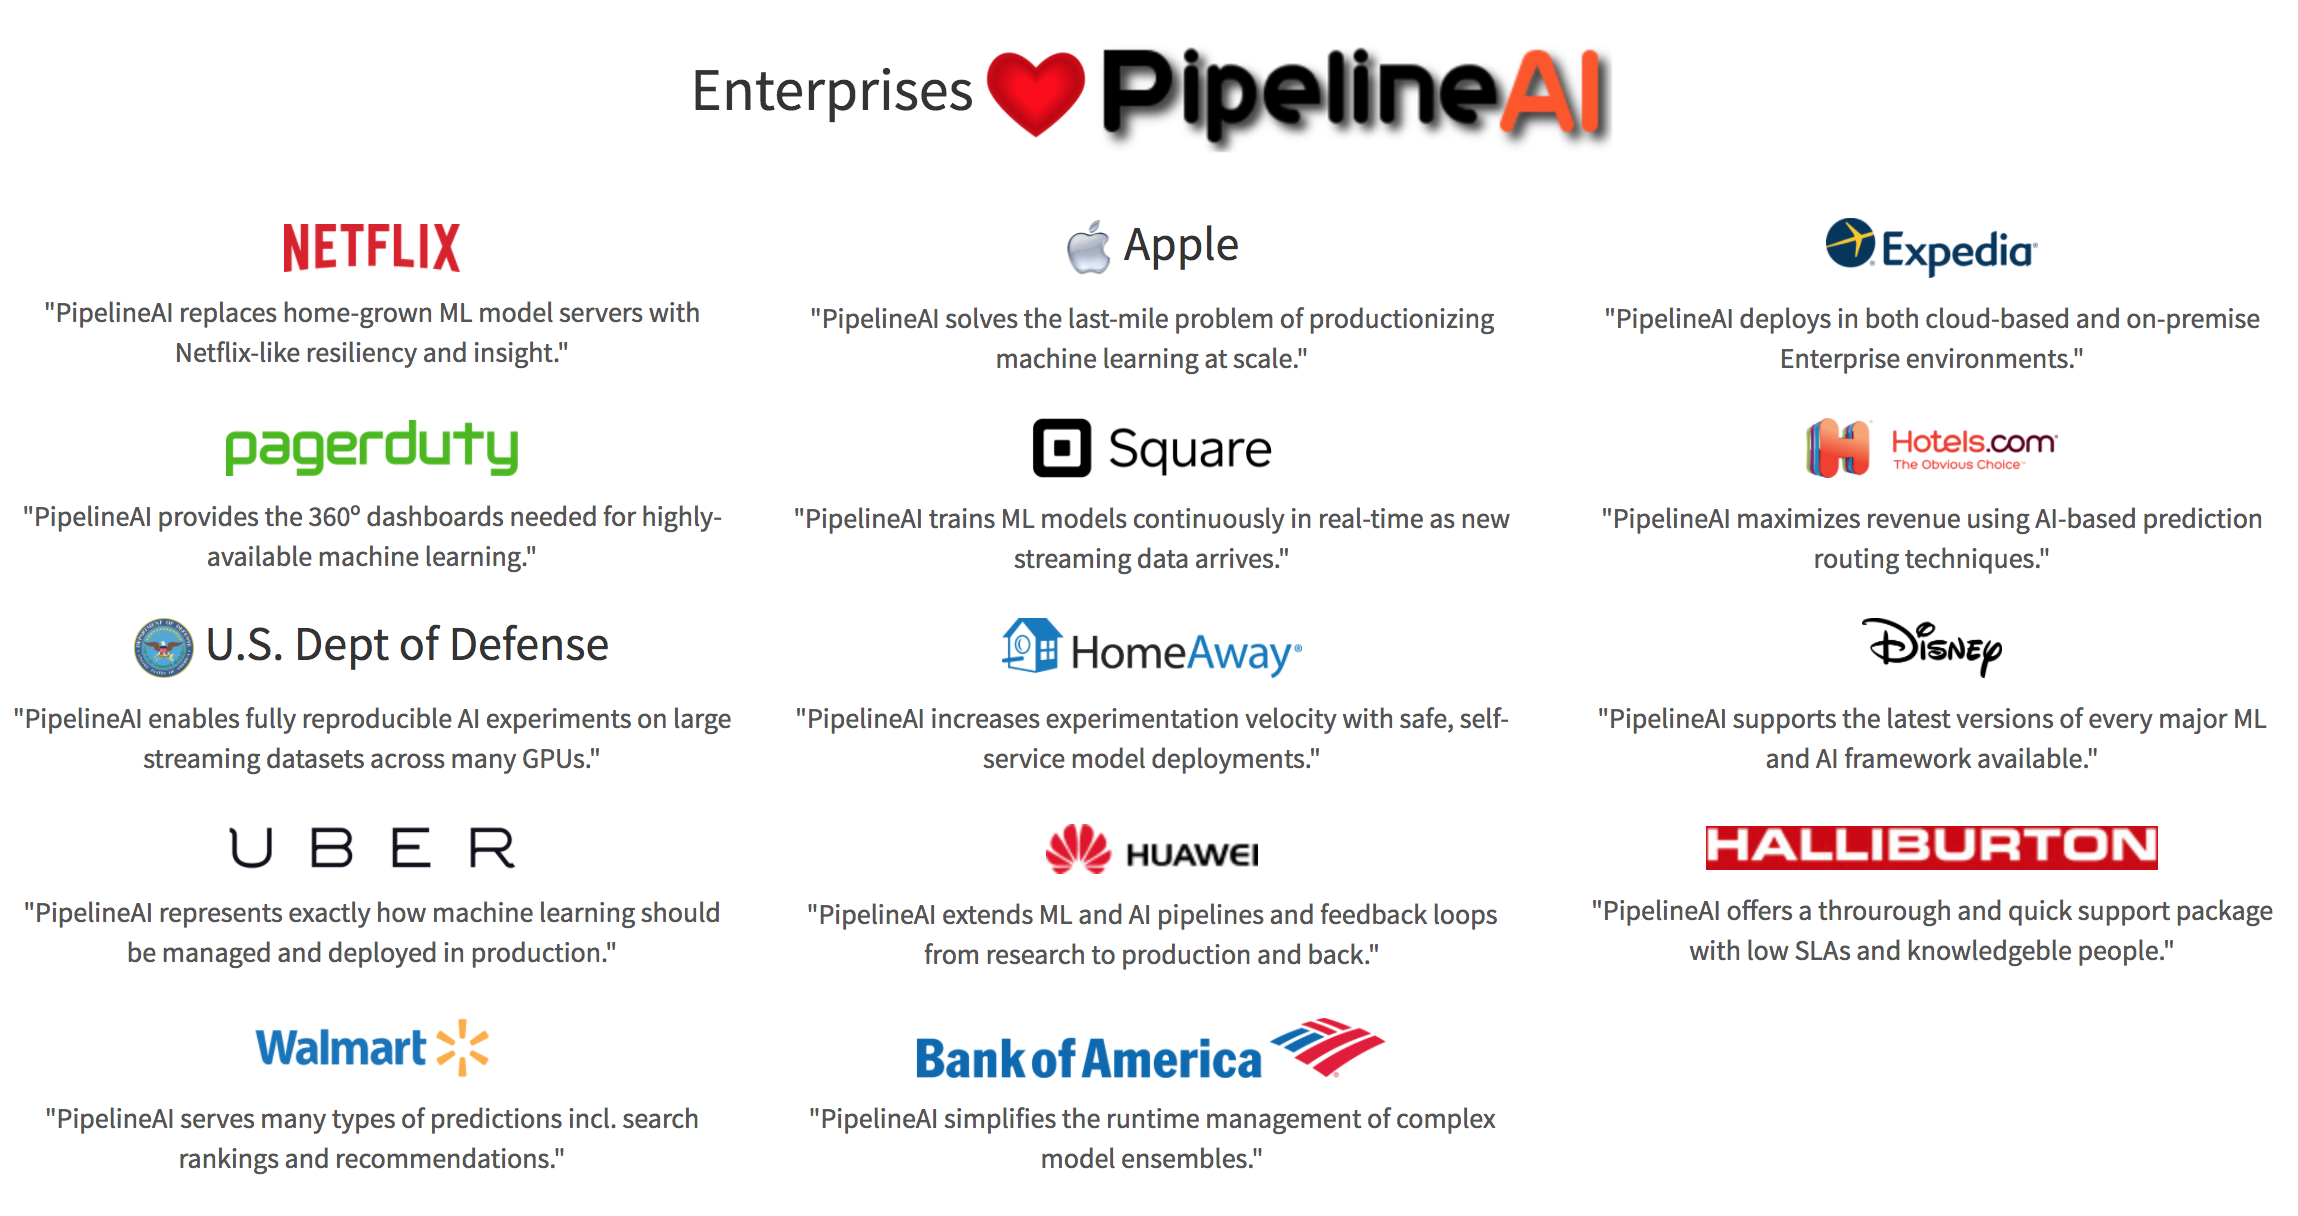
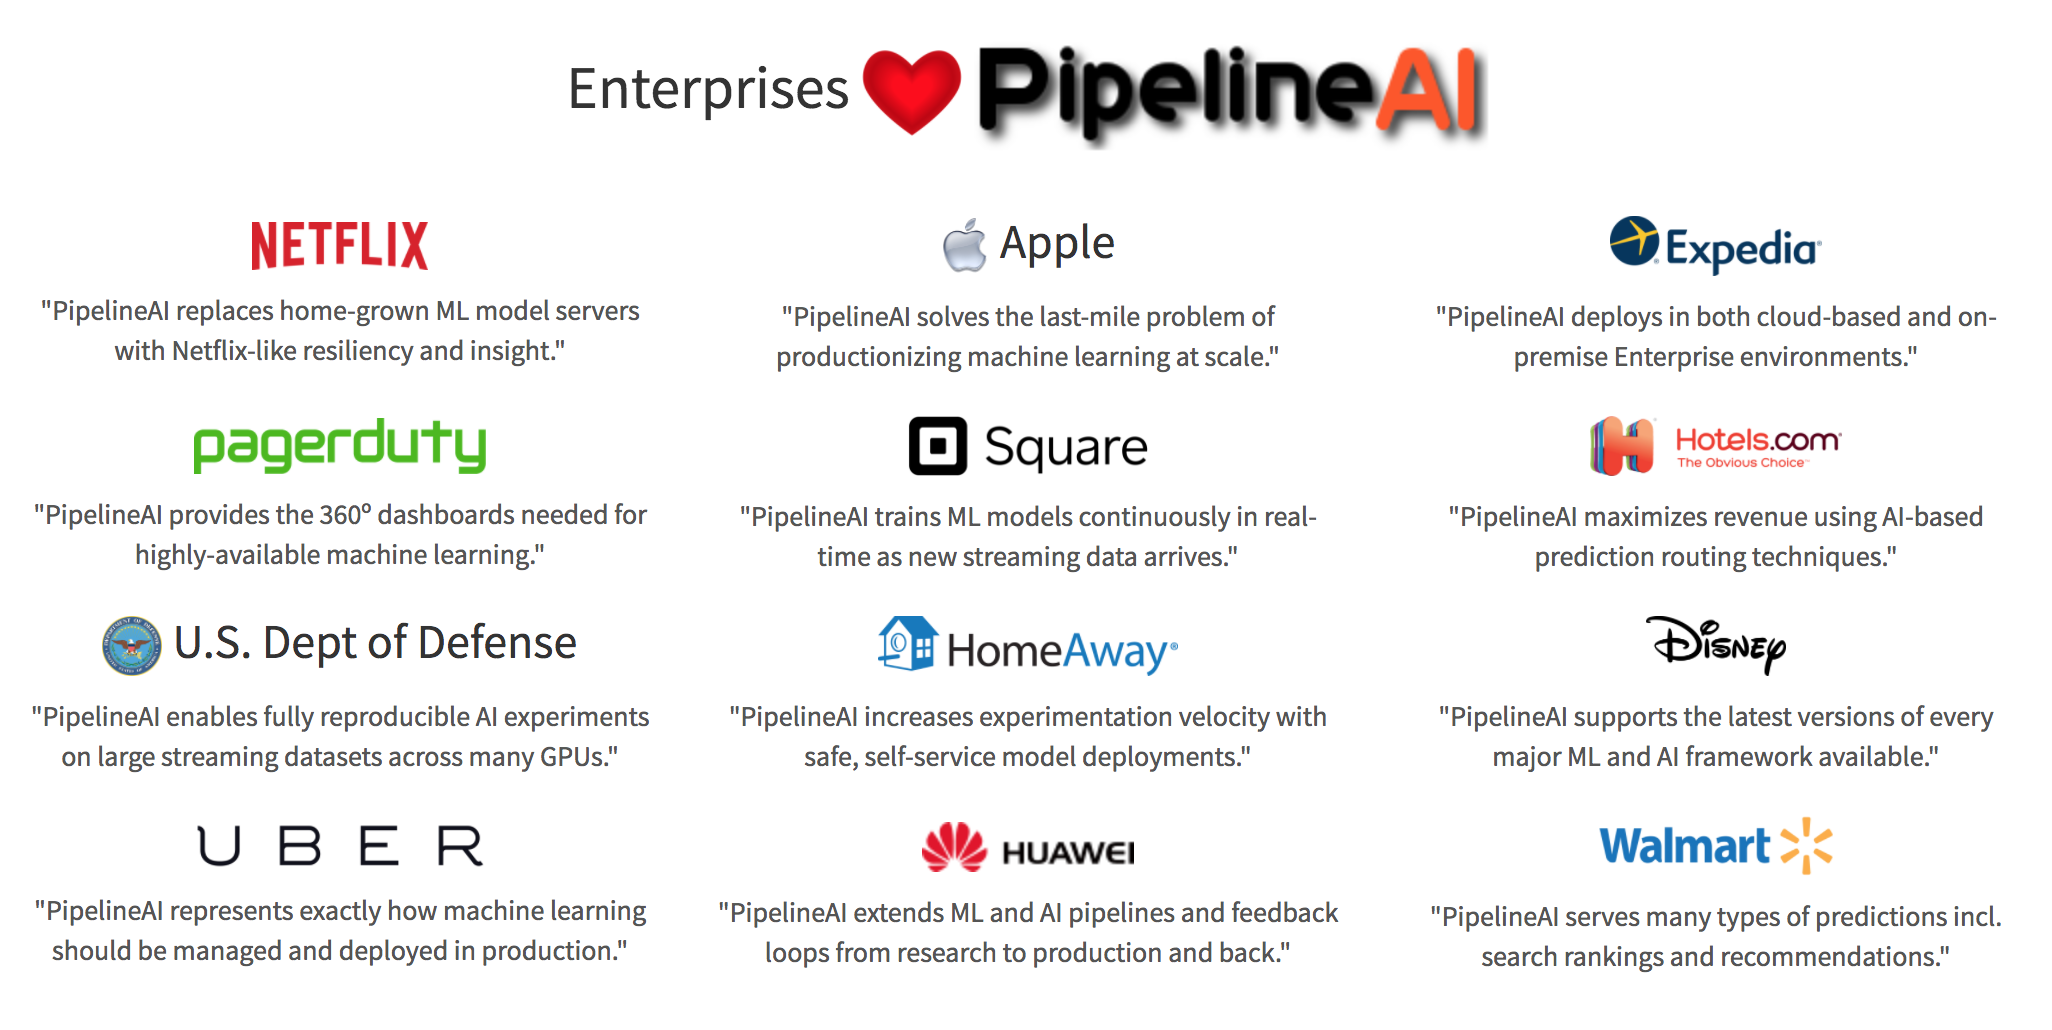
updated API link

diff --git a/docs/src/index.html b/docs/src/index.html
@@ -47,7 +47,7 @@
                     <li role="presentation"><a href="/integrations">Integrations </a></li>
                     <li role="presentation"><a href="/about">About Us</a></li>
                     <li role="presentation"><a href="/tour">Tour </a></li>
-                    <li role="presentation"><a href="https://github.com/PipelineAI/predict">Docs </a></li>
+                    <li role="presentation"><a href="https://github.com/PipelineAI/models">API </a></li>
                 </ul>
             </div>
         </div>
@@ -115,16 +115,8 @@
                 <p class="text-center description">"PipelineAI extends ML and AI pipelines and feedback loops from research to production and back."</p>
             </div>
             <div class="col-md-4 col-sm-6 item" style="height:100px;">
-                <h3 class="text-center name"><img src="assets/img/halliburton-logo.jpg"></h3>
-                <p class="text-center description">"PipelineAI offers a throurough and quick support package with low SLAs and knowledgeble people."</p>
-            </div>
-            <div class="col-md-4 col-sm-6 item" style="height:100px;">
                 <h3 class="text-center name"><img src="assets/img/walmart-logo.png" alt="Walmart PipelineAI" style="height:30px;"></h3>
                 <p class="text-center description">"PipelineAI serves many types of predictions incl. search rankings and recommendations."</p>
-            </div>
-            <div class="col-md-4 col-sm-6 item" style="height:100px;">
-                <h3 class="text-center name"><img src="assets/img/bank-of-america-logo.png" alt="Bank of America PipelineAI" style="height:30px;"></h3>
-                <p class="text-center description">"PipelineAI simplifies the runtime management of complex model ensembles."</p>
             </div>
         </div>
     </section>

diff --git a/docs/src/features/compare-cost-per-prediction.html b/docs/src/features/compare-cost-per-prediction.html
@@ -46,7 +46,9 @@
                     <li role="presentation"><a href="/integrations">Integrations </a></li>
                     <li role="presentation"><a href="/about">About Us </a></li>
                     <li role="presentation"><a href="/tour">Tour </a></li>
-                    <li role="presentation"><a href="https://github.com/PipelineAI/predict">Docs </a></li>
+                    <li role="presentation">
+                        <a href="https://github.com/PipelineAI/models"> </a>
+                    </li>
                 </ul>
             </div>
         </div>

diff --git a/docs/src/products/index.html b/docs/src/products/index.html
@@ -79,7 +79,7 @@ chosen link or button. -->
                     <li role="presentation"><a href="/integrations">Integrations </a></li>
                     <li role="presentation"><a href="/about">About Us </a></li>
                     <li role="presentation"><a href="/tour">Tour </a></li>
-                    <li role="presentation"><a href="https://github.com/PipelineAI/predict">Docs </a></li>
+                    <li role="presentation"><a href="https://github.com/PipelineAI/models">API </a></li>
                 </ul>
             </div>
         </div>

diff --git a/docs/src/about/index.html b/docs/src/about/index.html
@@ -46,7 +46,7 @@
                     <li role="presentation"><a href="/integrations">Integrations </a></li>
                     <li class="active" role="presentation"><a href="/about">About Us</a></li>
                     <li role="presentation"><a href="/tour">Tour </a></li>
-                    <li role="presentation"><a href="https://github.com/PipelineAI/predict">Docs </a></li>
+                    <li role="presentation"><a href="https://github.com/PipelineAI/models">Docs </a></li>
                 </ul>
             </div>
         </div>

diff --git a/docs/src/integrations/index.html b/docs/src/integrations/index.html
@@ -46,7 +46,7 @@
                     <li class="active" role="presentation"><a href="/integrations">Integrations </a></li>
                     <li role="presentation"><a href="/about">About Us </a></li>
                     <li role="presentation"><a href="/tour">Tour </a></li>
-                    <li role="presentation"><a href="https://github.com/PipelineAI/predict">Docs </a></li>
+                    <li role="presentation"><a href="https://github.com/PipelineAI/models">API </a></li>
                 </ul>
             </div>
         </div>

diff --git a/docs/src/features/continuous-training.html b/docs/src/features/continuous-training.html
@@ -46,7 +46,7 @@
                     <li role="presentation"><a href="/integrations">Integrations </a></li>
                     <li role="presentation"><a href="/about">About Us </a></li>
                     <li role="presentation"><a href="/tour">Tour </a></li>
-                    <li role="presentation"><a href="https://github.com/PipelineAI/predict">Docs </a></li>
+                    <li role="presentation"><a href="https://github.com/PipelineAI/models">API </a></li>
                 </ul>
             </div>
         </div>

diff --git a/docs/src/features/drag-n-drop.html b/docs/src/features/drag-n-drop.html
@@ -46,7 +46,7 @@
                     <li role="presentation"><a href="/integrations">Integrations </a></li>
                     <li role="presentation"><a href="/about">About Us </a></li>
                     <li role="presentation"><a href="/tour">Tour </a></li>
-                    <li role="presentation"><a href="https://github.com/PipelineAI/predict">Docs </a></li>
+                    <li role="presentation"><a href="https://github.com/PipelineAI/models">API </a></li>
                 </ul>
             </div>
         </div>

diff --git a/docs/src/features/index.html b/docs/src/features/index.html
@@ -46,7 +46,7 @@
                     <li role="presentation"><a href="/integrations">Integrations </a></li>
                     <li role="presentation"><a href="/about">About Us </a></li>
                     <li role="presentation"><a href="/tour">Tour </a></li>
-                    <li role="presentation"><a href="https://github.com/PipelineAI/predict">Docs </a></li>
+                    <li role="presentation"><a href="https://github.com/PipelineAI/models">API </a></li>
                 </ul>
             </div>
         </div>

diff --git a/docs/src/features/live-stream-predictions.html b/docs/src/features/live-stream-predictions.html
@@ -46,7 +46,7 @@
                     <li role="presentation"><a href="/integrations">Integrations </a></li>
                     <li role="presentation"><a href="/about">About Us </a></li>
                     <li role="presentation"><a href="/tour">Tour </a></li>
-                    <li role="presentation"><a href="https://github.com/PipelineAI/predict">Docs </a></li>
+                    <li role="presentation"><a href="https://github.com/PipelineAI/models">API </a></li>
                 </ul>
             </div>
         </div>

diff --git a/docs/src/features/model-optimize.html b/docs/src/features/model-optimize.html
@@ -46,7 +46,7 @@
                     <li role="presentation"><a href="/integrations">Integrations </a></li>
                     <li role="presentation"><a href="/about">About Us </a></li>
                     <li role="presentation"><a href="/tour">Tour </a></li>
-                    <li role="presentation"><a href="https://github.com/PipelineAI/predict">Docs </a></li>
+                    <li role="presentation"><a href="https://github.com/PipelineAI/models">API </a></li>
                 </ul>
             </div>
         </div>

diff --git a/docs/src/features/rapid-deployments.html b/docs/src/features/rapid-deployments.html
@@ -46,7 +46,7 @@
                     <li role="presentation"><a href="/integrations">Integrations </a></li>
                     <li role="presentation"><a href="/about">About Us </a></li>
                     <li role="presentation"><a href="/tour">Tour </a></li>
-                    <li role="presentation"><a href="https://github.com/PipelineAI/predict">Docs </a></li>
+                    <li role="presentation"><a href="https://github.com/PipelineAI/models">API </a></li>
                 </ul>
             </div>
         </div>

diff --git a/docs/src/features/shift-traffic.html b/docs/src/features/shift-traffic.html
@@ -46,7 +46,7 @@
                     <li role="presentation"><a href="/integrations">Integrations </a></li>
                     <li role="presentation"><a href="/about">About Us </a></li>
                     <li role="presentation"><a href="/tour">Tour </a></li>
-                    <li role="presentation"><a href="https://github.com/PipelineAI/predict">Docs </a></li>
+                    <li role="presentation"><a href="https://github.com/PipelineAI/models">API </a></li>
                 </ul>
             </div>
         </div>
